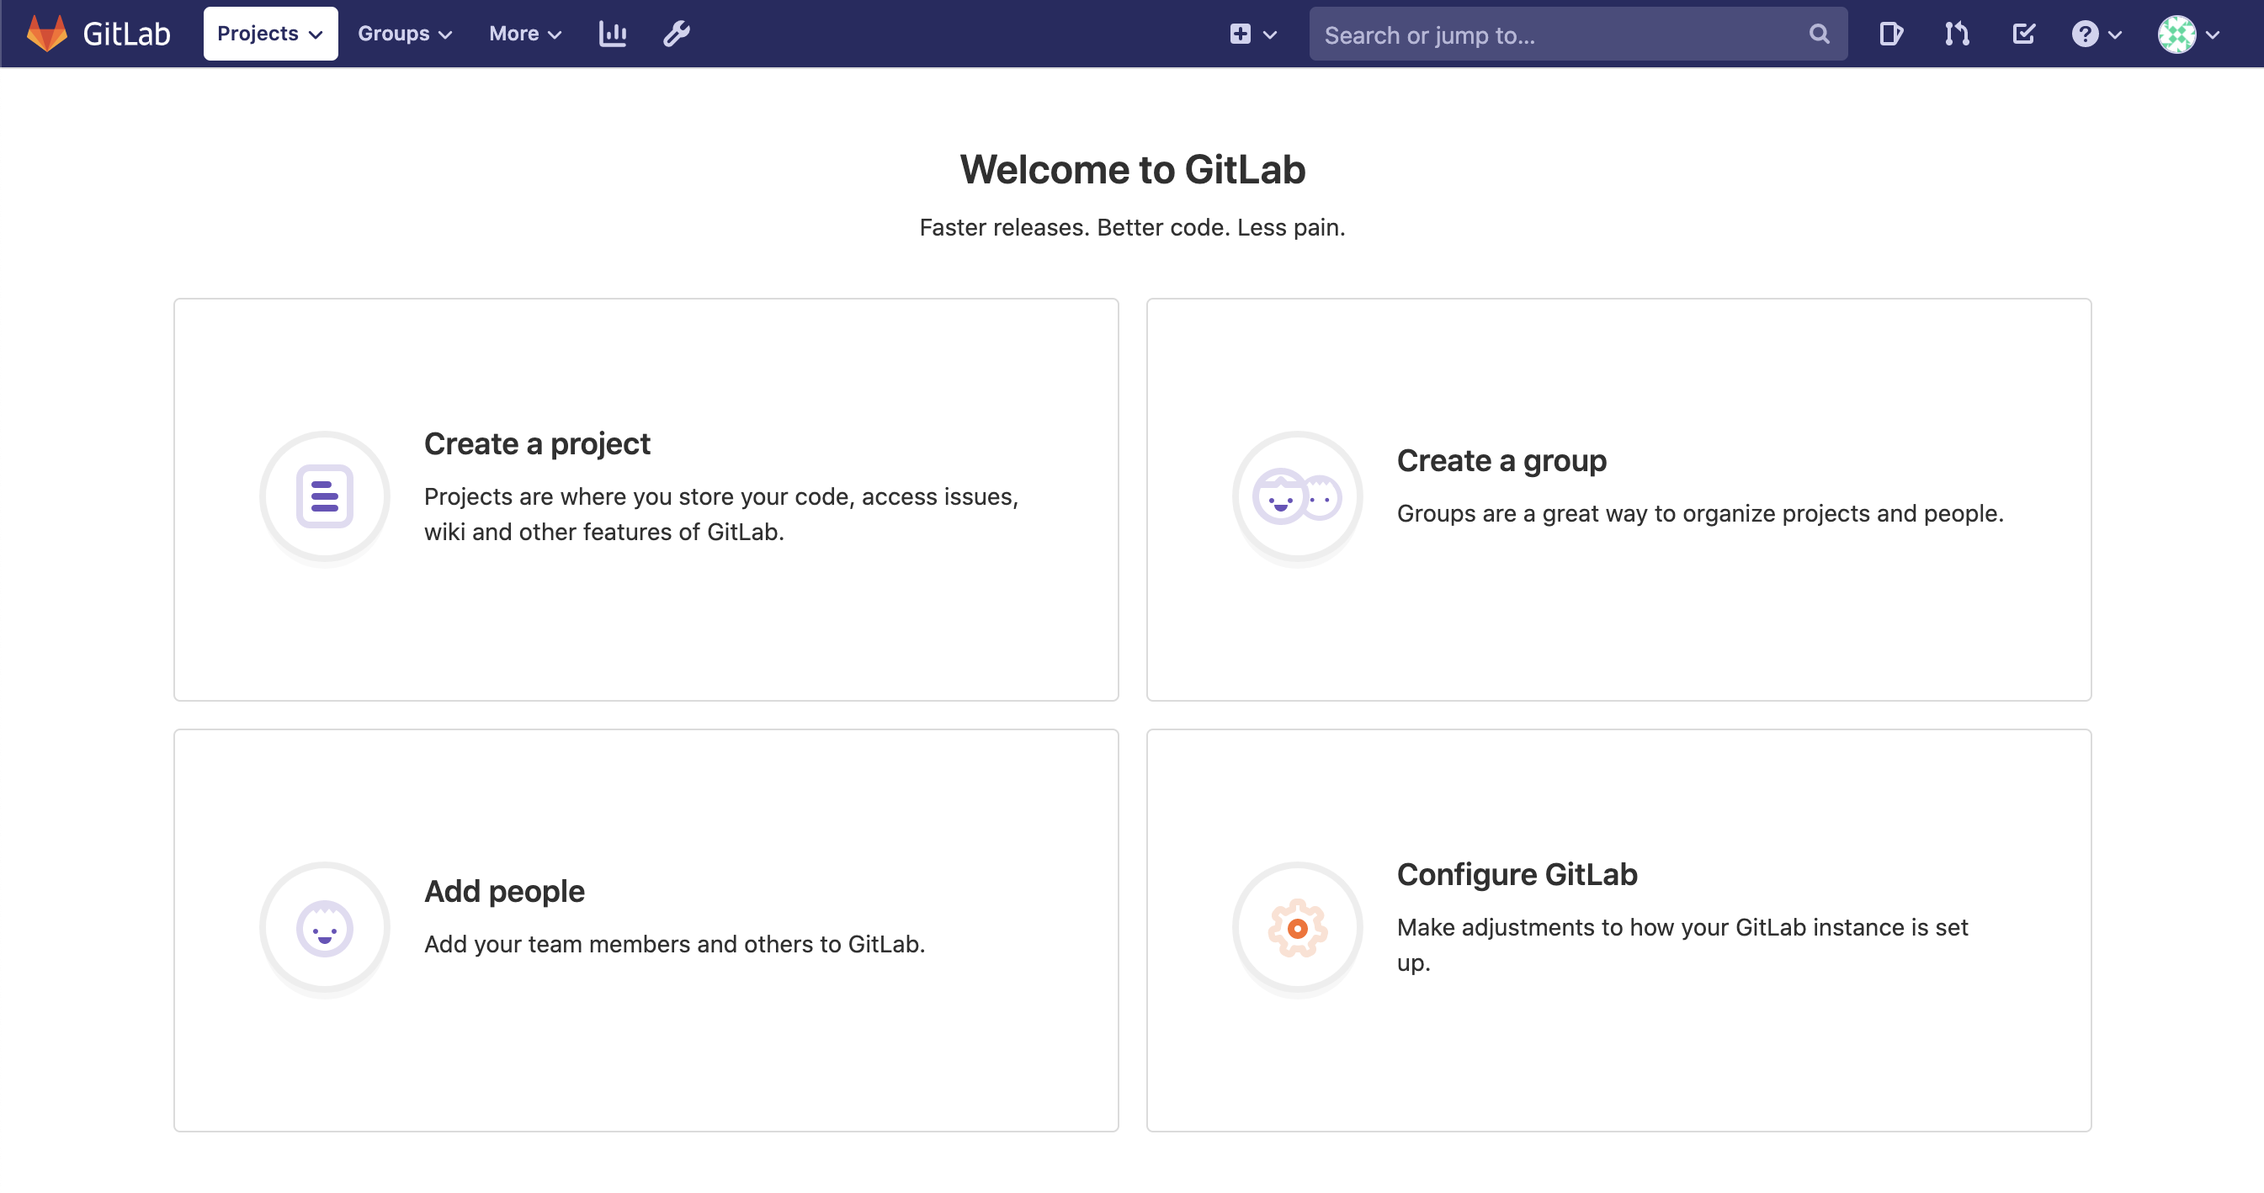
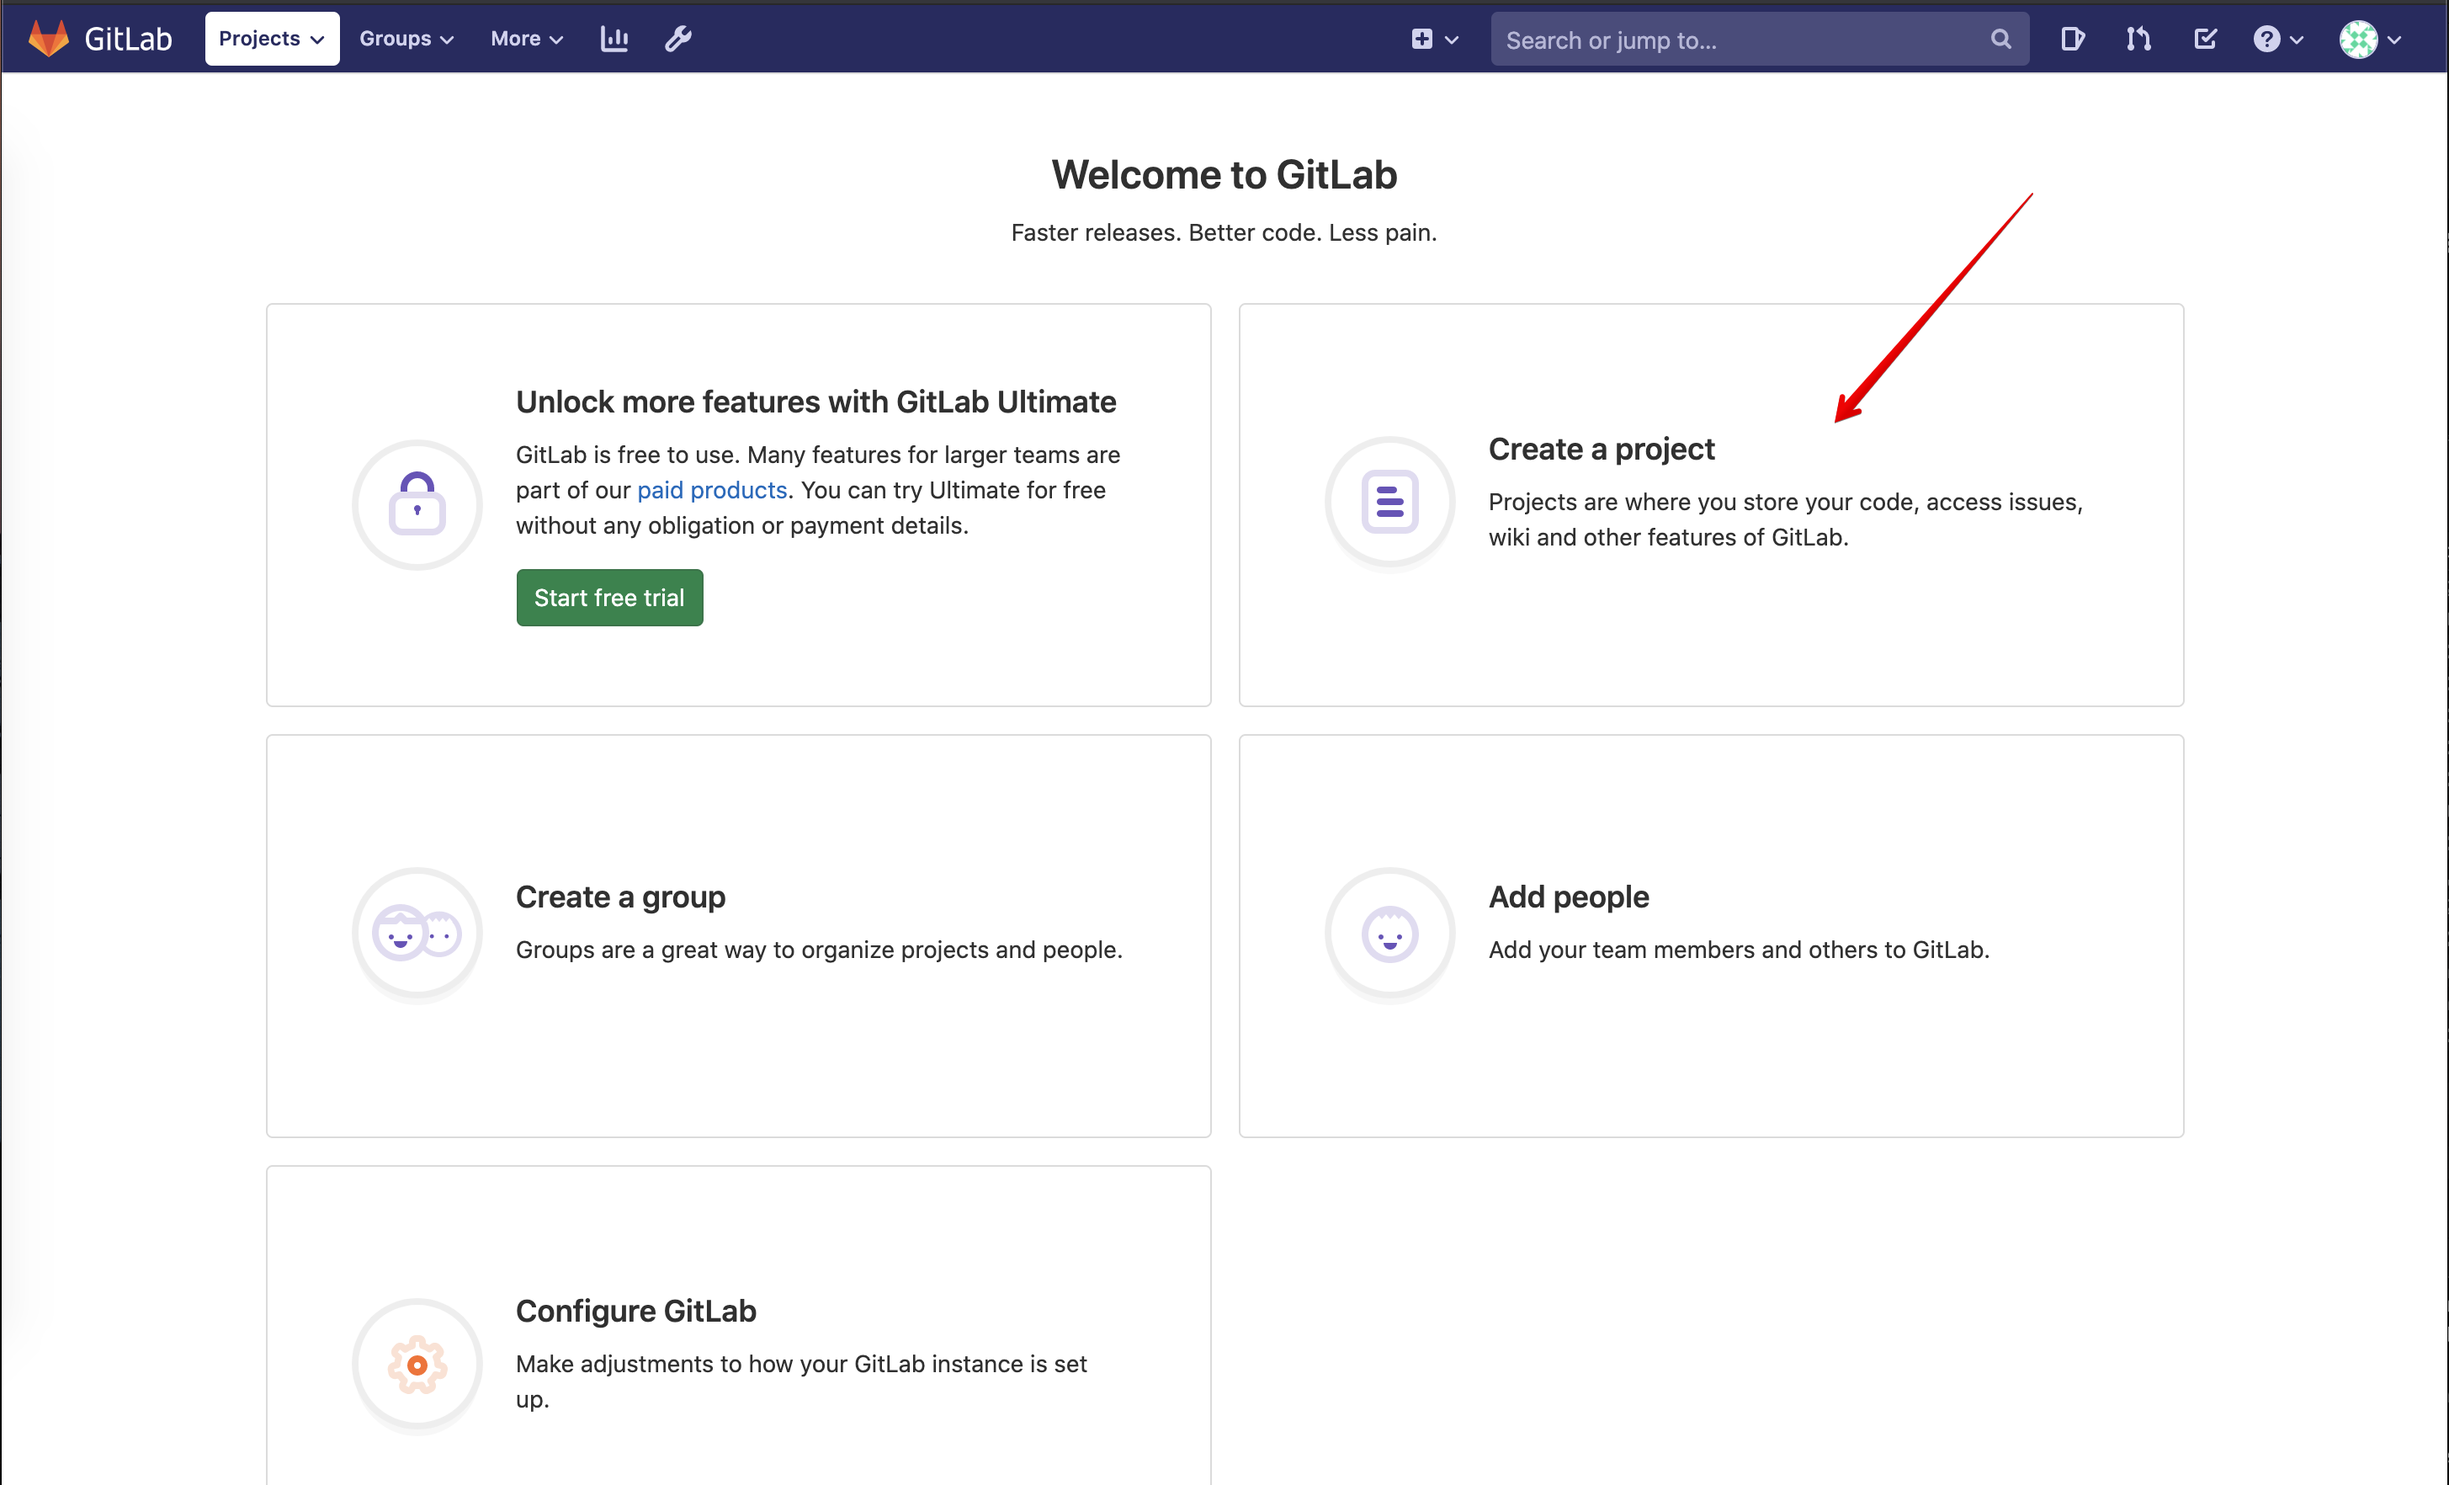
update draft gitlab lab

diff --git a/docs/class1/module2/lab12.rst b/docs/class1/module2/lab12.rst
@@ -4,10 +4,10 @@ Lab 2.12: AS3 Application Creation using GitLab CI/CD pipeline, Ansible and BIG-
 .. note:: Estimated time to complete: **25 minutes**
 
 In this lab, we are going to use GitLab to store the BIG-IP configuration (AS3 declaration) and deploy it through BIG-IQ to BIG-IP.
-We are leveraging a CI/CD pipeline in GitLab in order to make changes on the BIG-IP device.
+We are leveraging a **CI/CD pipeline** in GitLab in order to make changes on the BIG-IP device.
 
-Gitlab will keep track of the changes and control user access to the application service configuration of the F5 BIG-IP.
-We are using BIG-IQ to provide visibility with enhanced analytics (HTTP/TCP) to the DevOps/Application owner.
+Gitlab will keep track of the changes and control **user access** to the application service configuration of the F5 BIG-IP.
+We are using BIG-IQ to provide **visibility with enhanced analytics** (HTTP/TCP) to the DevOps/Application owner.
 
 This lab will be using following F5 Ansible Galaxy role:
     - `atc_deploy`_  **ansible Role**: Allows AS3 declaration to be sent to `automation tool chain`_ service.
@@ -27,7 +27,8 @@ Start GitLab and create new a project
     # export GITLAB_HOME="~/gitlab/"
     # docker-compose -f ~/gitlab/docker-compose.yml up -d
 
-3. Wait 5min open GitLab from the lab environement or open ``http://localhost:7002`` from a brownser in the jumphost using ``root/purple123``.
+3. Wait 5min to open GitLab web UI from the lab environement. Click on the *ACCESS* button of the **Ubuntu Lamp Server** system and click on
+   *GitLab*. The login/password is ``root/purple123``. Or open ``http://localhost:7002`` from a brownser in the jumphost.
 
 |lab-12-1|
 
@@ -37,22 +38,26 @@ Start GitLab and create new a project
 
 |lab-12-3|
 
-|lab-12-4|
-
-5. Copy the jumphost ssh public key::
+5. Copy the jumphost *Ubuntu Lamp Server* ssh public key::
 
     # cat ~/.ssh/id_rsa.pub 
 
-6. Back in gitlab, copy/paste the public key into gitlab.
+6. Back in GitLab, click on **Add SSH Key**.
+
+|lab-12-4|
+
+Paste the public key and click om **Add Key**.
 
 |lab-12-5|
 
 7. Let's now configure the gitlab runner with this project.
    This runner will be used to trigger pipelines when a commit is done on the project and allow us to automatically trigger a set of tasks.
    
-   Navigate the CI/CD option copy the token value
+First look up your project.
 
 |lab-12-6|
+
+Navigate the CI/CD option copy the token value.
 
 8. Back in the jumphost, run the following command to register the gitlab runner using the token value::
 

diff --git a/docs/class1/module2/module2.rst b/docs/class1/module2/module2.rst
@@ -82,6 +82,7 @@ integrated directly into the relevant CI/CD toolchains and workflows.
    lab9
    lab10
    lab11
+   lab12
 
 .. |diagram_as3_bigiq| image:: ../pictures/module2/diagram_as3_bigiq.png
    :scale: 60%
